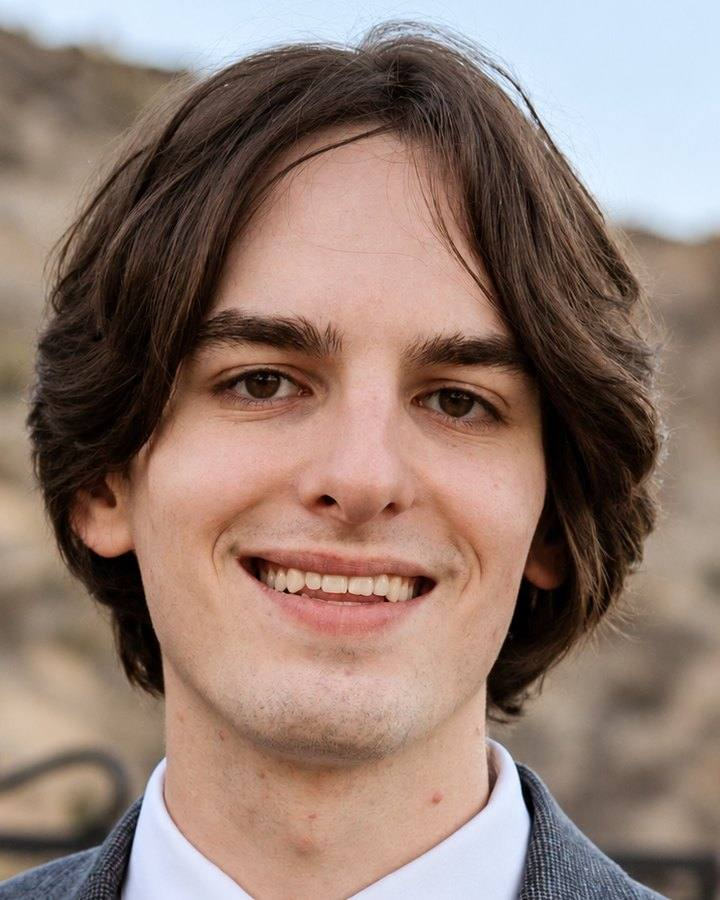
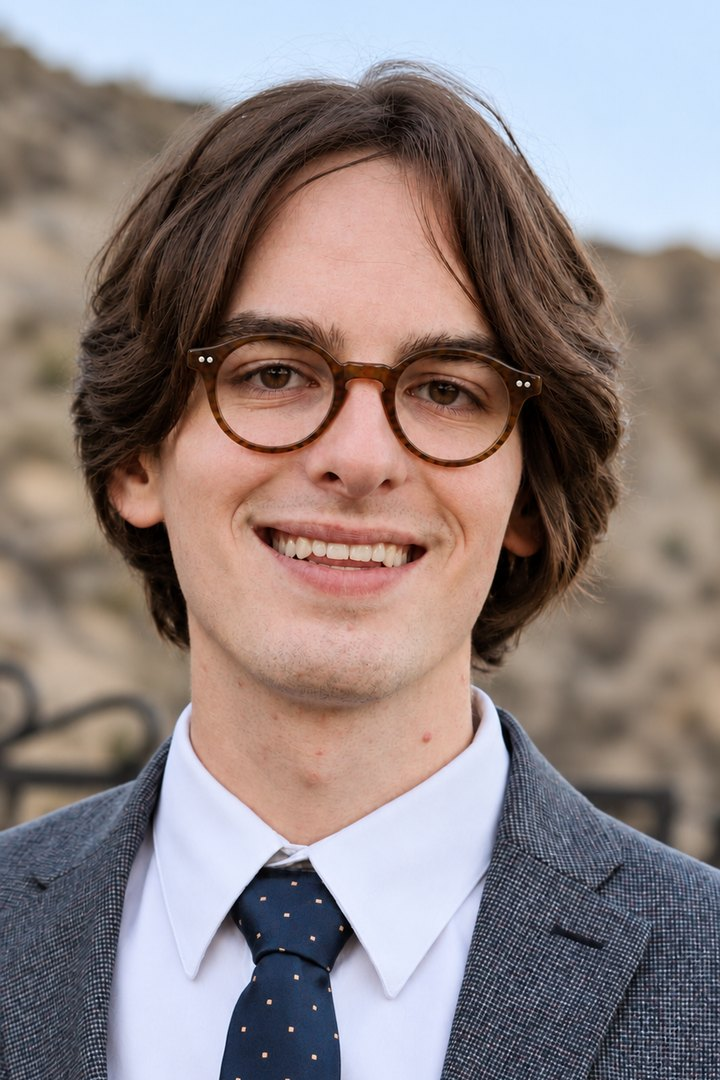
Update headshot: new photo, wider head-and-shoulders crop (#6)
Claude-Session: https://claude.ai/code/session_01PJvvaNpKDGkDyWMHkus118

diff --git a/index.html b/index.html
@@ -262,7 +262,7 @@ details[open] .case-body{animation:open .5s cubic-bezier(.2,.7,.2,1)}
 /* about */
 .about .wrap{display:grid;grid-template-columns:minmax(0,4fr) minmax(0,8fr);gap:72px;align-items:start}
 .portrait{margin:0;display:grid;gap:12px}
-.portrait img{width:100%;aspect-ratio:4/5;object-fit:cover;border-radius:18px;border:1px solid var(--line);box-shadow:var(--shadow);transition:filter .5s}
+.portrait img{width:100%;aspect-ratio:2/3;object-fit:cover;border-radius:18px;border:1px solid var(--line);box-shadow:var(--shadow);transition:filter .5s}
 :root[data-pal="mono"] .portrait img,:root:not([data-pal]) .portrait img{filter:grayscale(1) contrast(1.05)}
 .portrait figcaption{font:500 11px/1 var(--mono);letter-spacing:.12em;text-transform:uppercase;color:var(--muted)}
 .about h2{margin:18px 0 26px}
@@ -653,7 +653,7 @@ footer b{color:var(--on-night);font:400 22px/1 var(--display)}
 
 <section class="about" id="about">
   <div class="wrap">
-    <figure class="portrait rv"><img src="img/myles.jpg" width="720" height="900" alt="Myles Parslow" loading="lazy"><figcaption>Myles Parslow · Founder</figcaption></figure>
+    <figure class="portrait rv"><img src="img/myles.jpg?v=2" width="720" height="1080" alt="Myles Parslow" loading="lazy"><figcaption>Myles Parslow · Founder</figcaption></figure>
     <div class="rv d1">
       <div class="eyebrow">About</div>
       <h2>Myles Parslow</h2>
